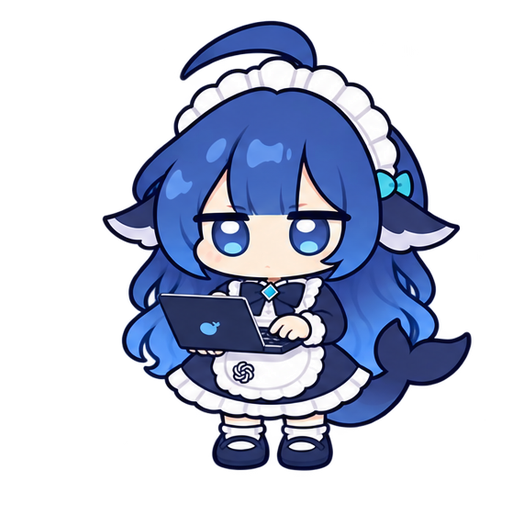
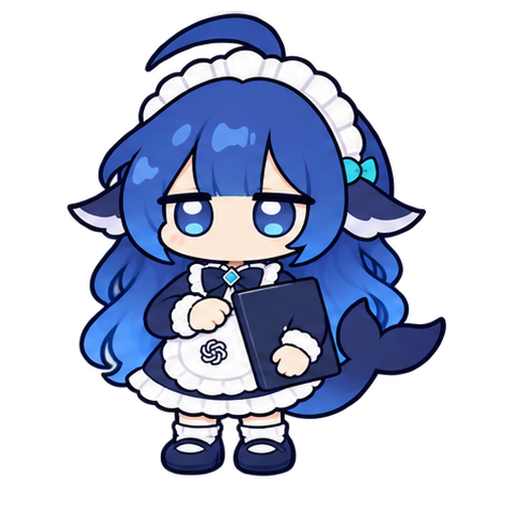
Refine face magnification, counting hands and seated laptop animation

diff --git a/apps/dsl-pet/scripts/build.py b/apps/dsl-pet/scripts/build.py
@@ -13,7 +13,7 @@ for a in manifest:
 for n in ['animations.json','待机.png']:shutil.copy2(assets/n,res/'assets'/n)
 shutil.copy2(root/'scripts/bridge.py',res/'bridge.py')
 shutil.copy2(root/'scripts/reply.py',res/'reply.py')
-info={'CFBundleExecutable':'DSLPet','CFBundleIdentifier':'local.chennuo.dsl-pet','CFBundleName':'小 DSL','CFBundleDisplayName':'小 DSL 悬浮桌宠','CFBundleVersion':'9','CFBundleShortVersionString':'0.4.0','CFBundlePackageType':'APPL','LSUIElement':True,'NSHighResolutionCapable':True,'LSMinimumSystemVersion':'13.0'}
+info={'CFBundleExecutable':'DSLPet','CFBundleIdentifier':'local.chennuo.dsl-pet','CFBundleName':'小 DSL','CFBundleDisplayName':'小 DSL 悬浮桌宠','CFBundleVersion':'10','CFBundleShortVersionString':'0.4.1','CFBundlePackageType':'APPL','LSUIElement':True,'NSHighResolutionCapable':True,'LSMinimumSystemVersion':'13.0'}
 with (app/'Contents/Info.plist').open('wb') as f:plistlib.dump(info,f)
 subprocess.run(['/usr/bin/codesign','--force','--sign','-',str(app)],check=True)
 subprocess.run([str(mac/'DSLPet'),'--self-test',str(res/'assets/animations.json')],check=True)

diff --git a/apps/dsl-pet/README.md b/apps/dsl-pet/README.md
@@ -12,7 +12,7 @@ python3 apps/dsl-pet/scripts/build.py
 
 脚本使用系统 Swift 编译器构建原生 AppKit 应用，读取本目录独立的 `assets/`，复制控制桥和回复桥，生成 `dist/DSLPet.app` 并进行 ad-hoc 签名，最后运行内置状态机自检。
 
-当前应用版本 0.4.0，Bundle Build 9。已验证 macOS Apple Silicon，最低系统版本 macOS 13。无图片生成服务或 OpenCV 运行依赖。
+当前应用版本 0.4.1，Bundle Build 10。已验证 macOS Apple Silicon，最低系统版本 macOS 13。无图片生成服务或 OpenCV 运行依赖。
 
 ## 源码结构
 
@@ -36,9 +36,9 @@ python3 apps/dsl-pet/scripts/build.py
 
 ## 素材
 
-157 张 PNG：156 张动画帧和 1 张待机图，另有 26 个时序 / 索引 JSON。素材独立存放于本项目，不依赖原素材仓库。
+159 张 PNG：158 张动画帧和 1 张待机图，另有 26 个时序 / 索引 JSON。素材独立存放于本项目，不依赖原素材仓库。
 
-0.4.0 新增敲电脑、放大镜查资料、拿本子认真推敲、掰手指数数。后两组共用第 1、2、5、6 帧，只替换中间两帧；新动作每轮 2.10 秒，轮间沿用 1 秒停留。自行车篮去掉大饭碗，保留筷子，并加入电脑和放大镜；原出入场的移动、终帧和时序保持。
+0.4.0 新增敲电脑、放大镜查资料、拿本子认真推敲、掰手指数数。后两组共用第 1、2、5、6 帧，只替换中间两帧；敲电脑动作在 0.4.1 扩展为 8 帧、每轮 2.90 秒；其余新增动作每轮 2.10 秒，轮间沿用 1 秒停留。自行车篮去掉大饭碗，保留筷子，并加入电脑和放大镜；原出入场的移动、终帧和时序保持。
 
 素材权利独立于代码的 MIT 许可，见 [素材权利声明](../../ASSET_RIGHTS.md)。
 
@@ -62,3 +62,5 @@ codex plugin add dsl-pet@q-ai-local
 应用与官方 Pets 使用不同的应用、插件包和控制桥。本插件不调用官方宠物的上传或选择接口，安装时保留官方 Pets 的安装状态与选择。
 
 插件安装方式参考 [OpenAI 官方插件文档](https://developers.openai.com/plugins/build/plugins)。
+
+0.4.1 修正观众视角下的放大镜脸部放大畸变，发现时使用弯眼和脸红；数数手背朝观众，指甲使用自然肤色，推敲与数数末帧重新落笔。电脑动作包含坐下、放在膝上打字、合盖、起身与得意收尾。成果举牌末帧去掉嘴，修改范围仅限脸部局部，原 alpha 和其他帧保持。

diff --git a/apps/dsl-pet/STATE_RULES.md b/apps/dsl-pet/STATE_RULES.md
@@ -1,4 +1,4 @@
-# 当前动画规则（0.4.0）
+# 当前动画规则（0.4.1）
 
 根据 Sources/Engine.swift 和素材 animations.json 核对。下列秒数为素材单轮时长，实际播放受定时器刷新影响。
 
@@ -6,7 +6,7 @@
 |---|---|---|
 | 默认待机 | 静态待机图 | 保持默认姿势；到空闲触发时间再选动作 |
 | 接到任务 | 点头接单 | 一次1.54秒，终帧停1秒，再进入工作 |
-| 思考工作模式 | 仔细思考 / 敲电脑 / 拿本子认真推敲 / 掰手指数数 | 候选权重25:30:25:20；原思考1.62秒，新动作2.10秒；轮间停1秒，避免连续同动作 |
+| 思考工作模式 | 仔细思考 / 敲电脑 / 拿本子认真推敲 / 掰手指数数 | 候选权重25:30:25:20；原思考1.62秒，敲电脑2.90秒，其余新动作2.10秒；轮间停1秒，避免连续同动作 |
 | 研究工作模式 | 翻书查资料 / 放大镜查资料 | 候选权重50:50；1.50/2.10秒；轮间停1秒，避免连续同动作 |
 | 混合工作模式 | 上述六组工作动作 | 合并两组候选权重；避免连续同动作，每轮之间停1秒 |
 | 需要用户输入 | 举手提问 | 每轮1.60秒，终帧停1秒，继续循环 |
